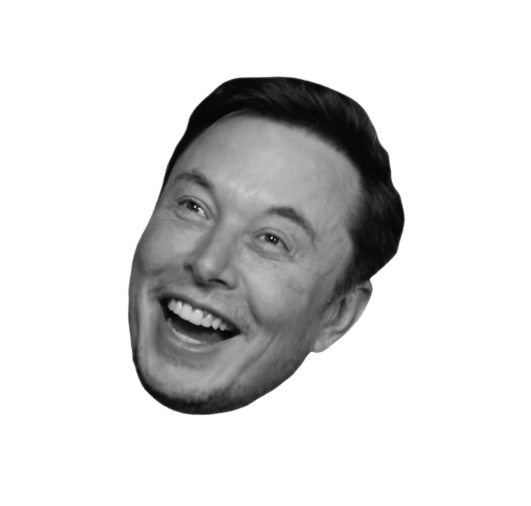
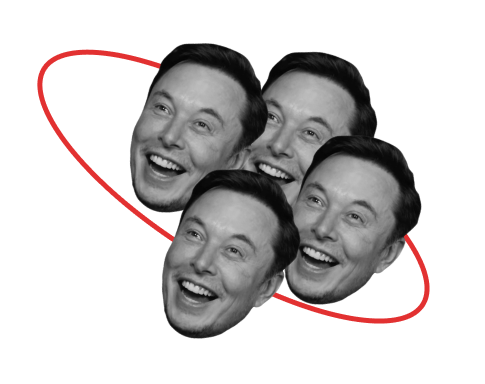
fixed design issues

diff --git a/project-athena-react/src/App.css b/project-athena-react/src/App.css
@@ -4,7 +4,7 @@
 }
 
 h1, h2, h3, a, p, span {
-  font-family: "Nunito", Helvetica;
+  font-family:'Trebuchet MS', 'Lucida Sans Unicode', 'Lucida Grande', 'Lucida Sans', Arial, sans-serif;
   font-weight: 400;
   color: rgb(0, 0, 0);
   margin: 0px;
@@ -24,11 +24,12 @@ body {
   flex-direction: column;
   height: 100vh;
   margin: 0px;
+  overflow-x: hidden;
 }
 
 header {
   display: flex;
-  width: 100%;
+  width: auto;
   border-bottom: 3px solid var(--border-color);
 }
 
@@ -73,47 +74,10 @@ main > article {
 
 #article-1 {
   grid-template-columns: 2fr 1fr;
-  margin-bottom: -36em;
 }
 
 #article-2 {
   grid-template-columns: 2fr 2fr;
-}
-
-#images > #image-1 {
-  height: 253px;
-  left: 109px;
-  object-fit: cover;
-  position:relative;
-  top: 9px;
-  width: 256px;
-}
-
-#images > #image-2 {
-  height: 253px;
-  left: 153px;
-  object-fit: cover;
-  position: relative;
-  top: -8em;
-  width: 256px;
-}
-
-#images > #image-3 {
-  height: 253px;
-  left: 0px;
-  object-fit: cover;
-  position: relative;
-  top: -30em;
-  width: 256px;
-}
-
-#images > #image-4 {
-  height: 253px;
-  left: 32px;
-  object-fit: cover;
-  position: relative;
-  top: -40em;
-  width: 256px;
 }
 
 article {
@@ -121,8 +85,13 @@ article {
   margin-bottom: 5%
 }
 
+.yellow-underline {
+  text-decoration: underline;
+  text-decoration-color: #ffcf26
+}
+
 #article-1 #content-1 > p{
-  font-size: 40px;
+  font-size: 35px;
   font-weight: 400;
   width:95%;
   padding: 5rem 4rem;

diff --git a/project-athena-react/src/components/IndexPage.js b/project-athena-react/src/components/IndexPage.js
@@ -5,12 +5,9 @@ export default function IndexPage() {
     return (
        <main>
             <article id="article-1">
-                <div id="content-1"><p>We're just a bunch of sleep-deprived college students trying to make it through our degrees without becoming permanently caffeinated. But hey, at least we're doing it together!</p></div>
+                <div id="content-1"><p>We're <span class="yellow-underline">just a bunch of sleep-deprived college students</span> trying to make it through our degrees without becoming permanently caffeinated. But hey, at least we're doing it together!</p></div>
                 <div id="images">
                     <img src={Images.elon} alt = 'elons' id="image-1"/>
-                    <img src={Images.elon} alt = 'elons' id="image-2"/>
-                    <img src={Images.elon} alt = 'elons' id="image-3"/>
-                    <img src={Images.elon} alt = 'elons' id="image-4"/>
                 </div>
             </article>
             <article id="article-2">

diff --git a/project-athena-react/src/Events.css b/project-athena-react/src/Events.css
@@ -13,6 +13,19 @@
     justify-items: center;
 }
 
+#community-article-2 {
+    justify-items: center;
+}
+
+#community-article-2 h1{
+    font-family: 'Courier New', Courier, monospace;
+    font-size: 48px;
+}
+
+#community-article-2 p{
+    font-family: 'Courier New', Courier, monospace;
+}
+
 #community-article-1 h1,
 #community-article-1 p,
 #resource-article-1 h1,

diff --git a/project-athena-react/src/components/CommunityPage.js b/project-athena-react/src/components/CommunityPage.js
@@ -11,7 +11,8 @@ export default function EventsPage() {
       </article>
 
       <article id='community-article-2'>
-        <span>Content</span>
+        <h1>Connect with Your Institute Community Soon!</h1>
+        <p>A Hub for All Your Institute Needs - Get Ready to Collaborate!</p>
       </article>
 
       <article class="article-6" id='event-article-4'>

diff --git a/project-athena-react/src/assets/Images.js b/project-athena-react/src/assets/Images.js
@@ -4,7 +4,7 @@ import elon2 from '../assets/elon2.png';
 import elon3 from '../assets/elon3.png';
 import elon4 from '../assets/elon4.png';
 import elon5 from '../assets/elon5.png';
-import downArrow from '../assets/down-arrow.svg';
+import downArrow from '../assets/downArrow.svg';
 
 
 
